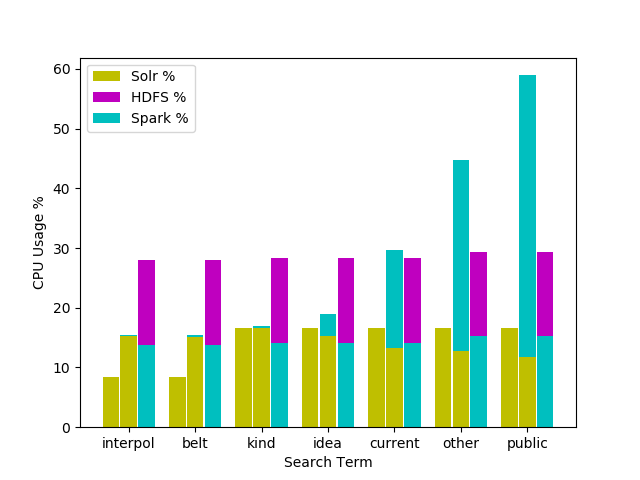
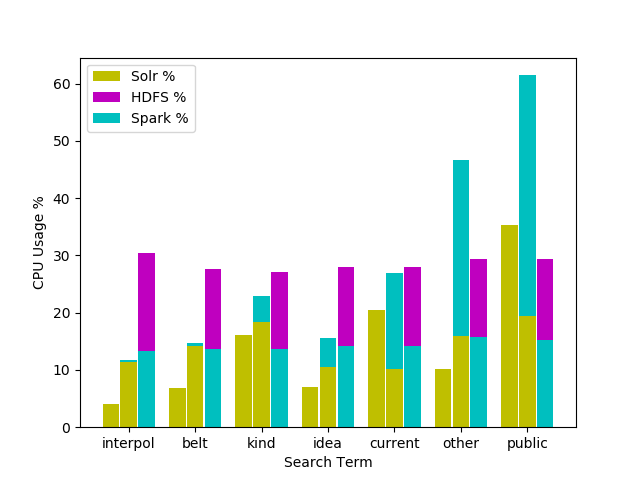
Update graphs

diff --git a/report/resource_usage.py b/report/resource_usage.py
@@ -13,9 +13,6 @@ total_mem = 32  # single node memory in Ki
 num_nodes = 5  # number of machines
 num_cores = 12 # number of cores
 
-# terms = ["napoleon", "interpol", "belt", "kind", "idea", "current", "other", "public"]
-
-# TODO : misspelled napoleon for one of the experiments, need to rerun
 terms = ["interpol", "belt", "kind", "idea", "current", "other", "public"]
 
 doc_freq = {
@@ -133,7 +130,7 @@ def get_pod_metrics(exp_type, term, log_length):
                 CPU = int(match_result.group(3))  # milliCPU
                 MEM = int(match_result.group(4))  # mem
                 MEM_UNIT = match_result.group(5)  # Gi - GB, Mi - MB, Ki - KB
-                # node = int(match_result.group(6))  # node num
+                node = int(match_result.group(6))  # node num
 
                 if last_log_time == 0 and log_time != 60:
                     # target pod was not started until current log_time
@@ -151,7 +148,8 @@ def get_pod_metrics(exp_type, term, log_length):
                     total_spark_cpu = np.sum(spark_cpu_group)
                     total_hdfs_cpu = np.sum(hdfs_cpu_group)
                     total_solr_cpu = np.sum(solr_cpu_group)
-                    total_cpu = total_spark_cpu + total_hdfs_cpu + total_solr_cpu
+                    # total_cpu = total_spark_cpu + total_hdfs_cpu + total_solr_cpu
+                    total_cpu = 120
 
                     spark_cpu_usage.append(total_spark_cpu / total_cpu * 100)
                     hdfs_cpu_usage.append(total_hdfs_cpu / total_cpu * 100)
@@ -160,7 +158,8 @@ def get_pod_metrics(exp_type, term, log_length):
                     total_spark_mem = np.sum(spark_mem_group)
                     total_hdfs_mem = np.sum(hdfs_mem_group)
                     total_solr_mem = np.sum(solr_mem_group)
-                    total_mem = total_spark_mem + total_hdfs_mem + total_solr_mem
+                    # total_mem = total_spark_mem + total_hdfs_mem + total_solr_mem
+                    total_mem = 32 * 5
 
                     spark_mem_usage.append(total_spark_mem / total_mem * 100)
                     hdfs_mem_usage.append(total_hdfs_mem / total_mem * 100)
@@ -179,7 +178,7 @@ def get_pod_metrics(exp_type, term, log_length):
                     last_log_time = log_time
 
                 # convert milliCPU to CPU
-                CPU /= (1000 * num_cores)
+                CPU /= 1000
 
                 # convert all memory to Gi
                 converted = MEM
@@ -343,17 +342,6 @@ def draw_bar_terms():
     exp3_spark_cpu_usage = avg_percentage([term_exps[term]['hdfs_spark']['spark_cpu_usage'] for term in terms])
     exp3_hdfs_cpu_usage = avg_percentage([term_exps[term]['hdfs_spark']['hdfs_cpu_usage'] for term in terms])
 
-    # exp1_driver_cpu_usage = np.percentile([term_exps[term]['solr']['cpu_usage'] for term in terms], 90)
-    # exp1_solr_cpu_usage = np.percentile([term_exps[term]['solr']['solr_cpu_usage'] for term in terms], 90)
-    #
-    # exp2_driver_cpu_usage = np.percentile([term_exps[term]['spark_solr']['cpu_usage'] for term in terms], 90)
-    # exp2_solr_cpu_usage = np.percentile([term_exps[term]['spark_solr']['solr_cpu_usage'] for term in terms], 90)
-    # exp2_spark_cpu_usage = np.percentile([term_exps[term]['spark_solr']['spark_cpu_usage'] for term in terms], 90)
-    #
-    # exp3_driver_cpu_usage = np.percentile([term_exps[term]['hdfs_spark']['cpu_usage'] for term in terms], 90)
-    # exp3_spark_cpu_usage = np.percentile([term_exps[term]['hdfs_spark']['spark_cpu_usage'] for term in terms], 90)
-    # exp3_hdfs_cpu_usage = np.percentile([term_exps[term]['hdfs_spark']['hdfs_cpu_usage'] for term in terms], 90)
-
     ###
 
     # memory
@@ -372,8 +360,6 @@ def draw_bar_terms():
 
     ### driver
 
-    # plt.title("Average Driver CPU Usage % vs Selectivity")
-
     # exp1
     plt.bar(X - 0.27, exp1_driver_cpu_usage, color='r', width=0.25)
 
@@ -389,12 +375,10 @@ def draw_bar_terms():
     plt.legend(['ThreadedSolr', 'SparkSolr', 'SparkHDFS'], loc='upper left')
 
     plt.savefig(os.path.join(graphs_dir, "driver_cpu_selectivity.png"))
-    plt.show()
 
     ### cluster
 
     plt.clf()
-    # plt.title("Average Cluster CPU Usage % vs Selectivity")
 
     # exp1
     plt1 = plt.bar(X - 0.27, exp1_solr_cpu_usage, color='y', width=0.25)
@@ -413,14 +397,12 @@ def draw_bar_terms():
     plt.legend((plt1[0], plt2[0], plt3[0]), ('Solr %', 'HDFS %', 'Spark %'), loc='upper left')
 
     plt.savefig(os.path.join(graphs_dir, "cluster_cpu_selectivity.png"))
-    plt.show()
 
     ###
 
     ### driver
 
     plt.clf()
-    # plt.title("Average Driver Memory Usage % vs Selectivity")
 
     # exp1
     plt.bar(X - 0.27, exp1_driver_mem_usage, color='r', width=0.25)
@@ -441,8 +423,7 @@ def draw_bar_terms():
     ### cluster
 
     plt.clf()
-    # plt.title("Average Cluster Memory Usage % vs Selectivity")
-
+    
     # exp1
     plt1 = plt.bar(X - 0.27, exp1_solr_mem_usage, color='y', width=0.25)
 
@@ -456,11 +437,10 @@ def draw_bar_terms():
 
     plt.xticks(X, terms)
     plt.xlabel('Search Term')
-    plt.ylabel('CPU Usage %')
+    plt.ylabel('Memory Usage %')
     plt.legend((plt1[0], plt2[0], plt3[0]), ('Solr %', 'HDFS %', 'Spark %'), loc='upper left')
 
     plt.savefig(os.path.join(graphs_dir, "cluster_mem_selectivity.png"))
-
 
 def draw_runtime():
     # plot bar graph for driver runtime for each experiment
